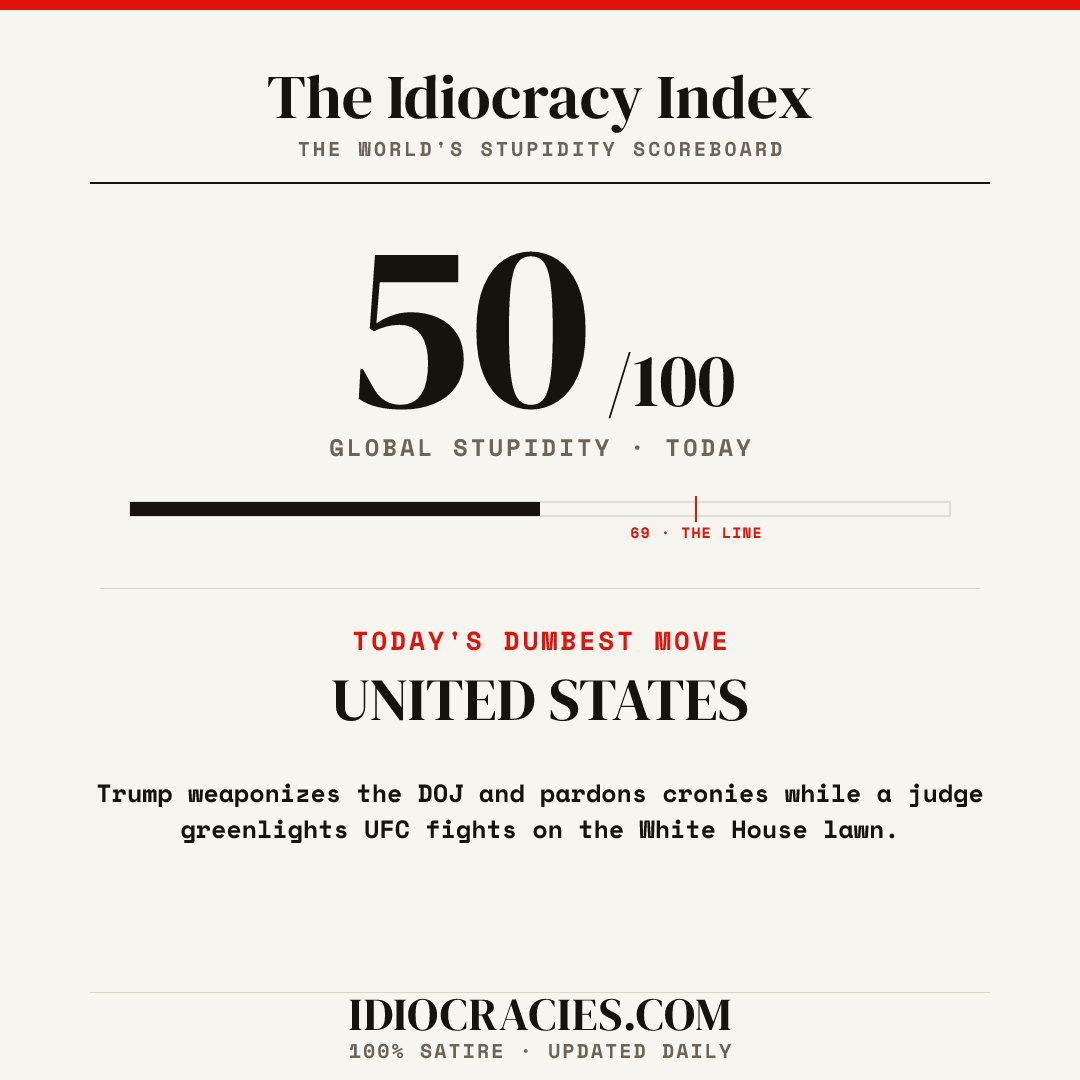
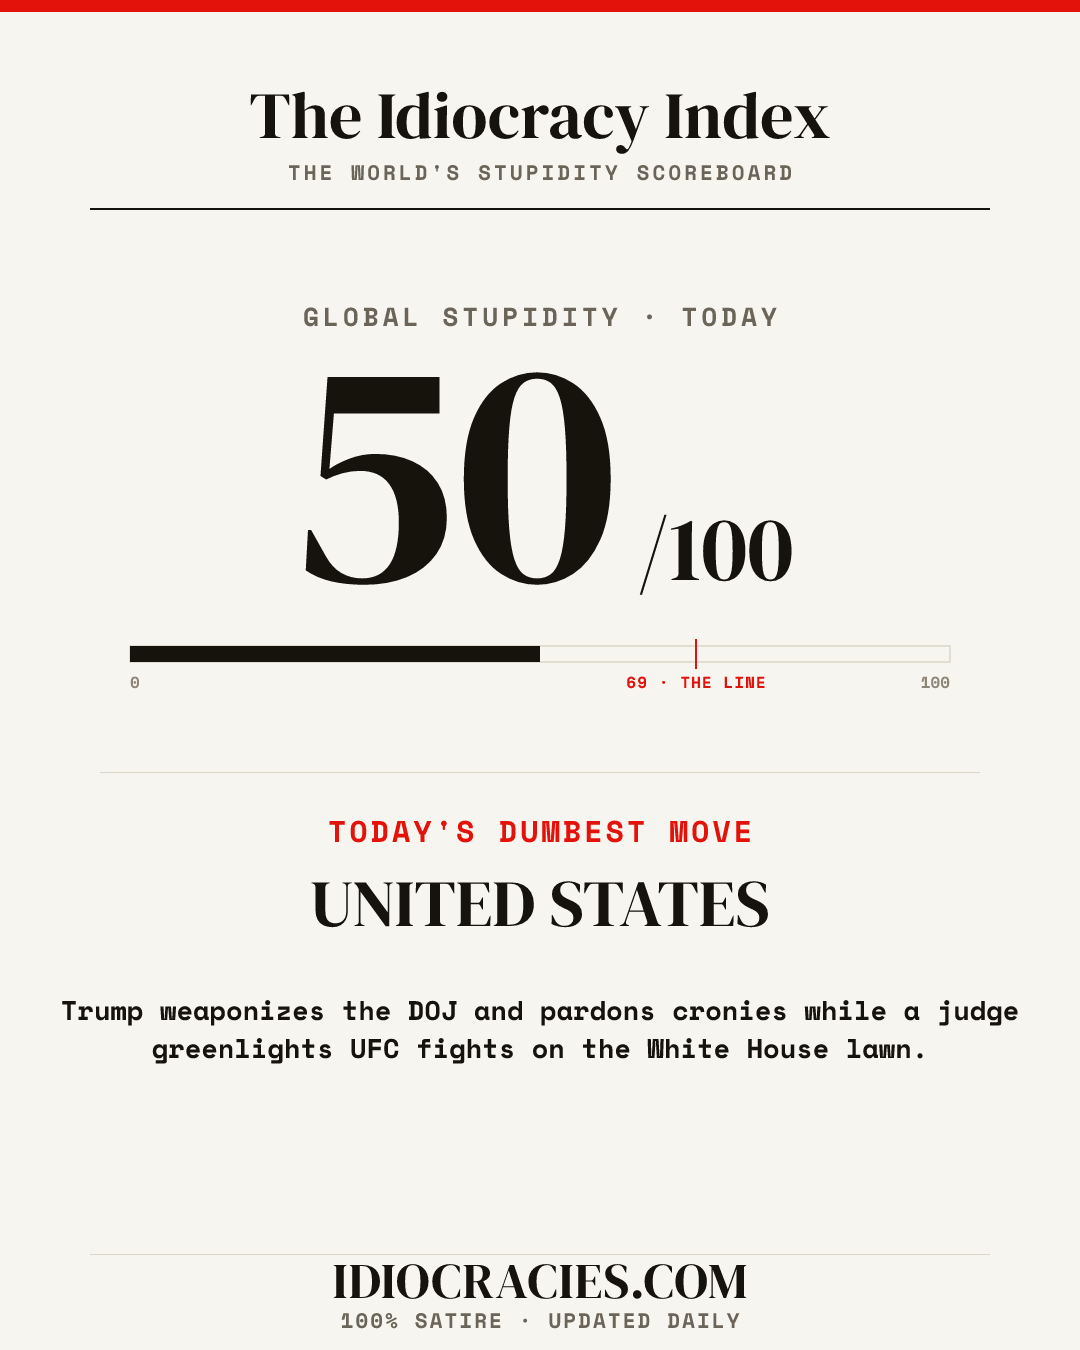
Mode sombre auto, connerie du jour 3 jours max, posts sociaux portrait 4:5 (lien X en reponse + legendes editoriales)

diff --git a/assets/style.css b/assets/style.css
@@ -350,3 +350,20 @@ img{ max-width:100%; display:block; }
   *,*::before,*::after{ animation-duration:.001ms !important; transition-duration:.001ms !important; scroll-behavior:auto !important; }
   .reveal{ opacity:1; transform:none; }
 }
+
+/* ---------- DARK MODE (auto — suit la préférence du navigateur) ---------- */
+@media (prefers-color-scheme: dark){
+  :root{
+    --paper:#16140f;   /* papier sombre chaud */
+    --paper2:#211d16;
+    --card:#1c1813;
+    --ink:#f1ede3;     /* encre claire */
+    --soft:#a8a092;
+    --faint:#7d7566;
+    --line:#2f2a20;
+    --line2:#403a2d;
+    --red:#fa3b30;     /* rouge un peu plus vif pour rester lisible sur fond sombre */
+    --red-ink:#ff5a50;
+    --redzone:rgba(250,59,48,.12);
+  }
+}